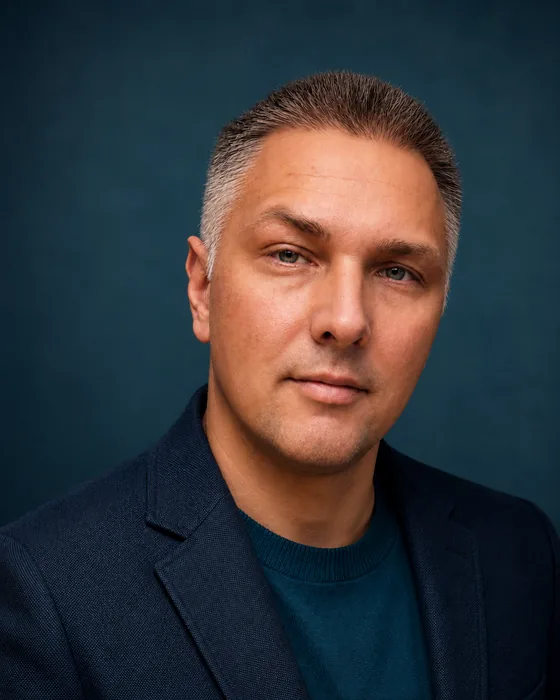
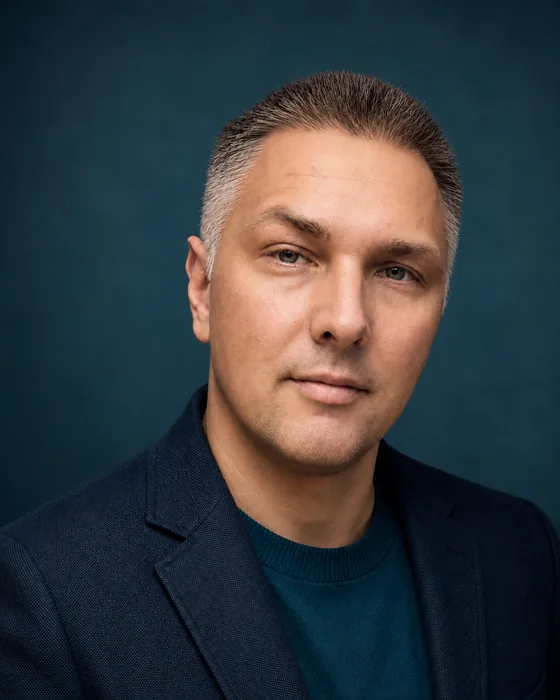
Tone down the orange skin tone in the portrait
Selective correction of warm hues only (skin saturation -18 %, slight
hue shift towards yellow); background and clothing unchanged. Applied
to the page image and the social preview image, with a version query
so browsers load the new file.

Claude-Session: https://claude.ai/code/session_01JX9aw82BViwWp4Z3wvxrH5

diff --git a/index.html b/index.html
@@ -13,7 +13,7 @@
   <meta property="og:title" content="Oleksii Yermakov — Vermessungsingenieur">
   <meta property="og:description" content="Vermessungsingenieur · Kartenzeichner · Land Manager mit 20 Jahren Erfahrung.">
   <meta property="og:url" content="https://olyermakov.github.io/yermakov-cv/">
-  <meta property="og:image" content="https://olyermakov.github.io/yermakov-cv/Foto.jpg">
+  <meta property="og:image" content="https://olyermakov.github.io/yermakov-cv/Foto.jpg?v=2">
   <meta property="og:image:width" content="800">
   <meta property="og:image:height" content="1000">
   <meta property="og:image:alt" content="Oleksii Yermakov — Vermessungsingenieur">
@@ -24,7 +24,7 @@
   <meta name="twitter:card" content="summary_large_image">
   <meta name="twitter:title" content="Oleksii Yermakov — Vermessungsingenieur">
   <meta name="twitter:description" content="Vermessungsingenieur · Kartenzeichner · Land Manager mit 20 Jahren Erfahrung.">
-  <meta name="twitter:image" content="https://olyermakov.github.io/yermakov-cv/Foto.jpg">
+  <meta name="twitter:image" content="https://olyermakov.github.io/yermakov-cv/Foto.jpg?v=2">
   <link rel="canonical" href="https://olyermakov.github.io/yermakov-cv/">
 
   <!-- Inline SVG favicon (logo style) -->
@@ -181,7 +181,7 @@
 
         <figure class="hero-portrait">
           <div class="portrait-frame">
-            <img src="Foto.webp" alt="Oleksii Yermakov — Vermessungsingenieur" width="280" height="340" fetchpriority="high" decoding="async">
+            <img src="Foto.webp?v=2" alt="Oleksii Yermakov — Vermessungsingenieur" width="280" height="340" fetchpriority="high" decoding="async">
             <span class="portrait-corner portrait-corner-tl" aria-hidden="true"></span>
             <span class="portrait-corner portrait-corner-tr" aria-hidden="true"></span>
             <span class="portrait-corner portrait-corner-bl" aria-hidden="true"></span>
